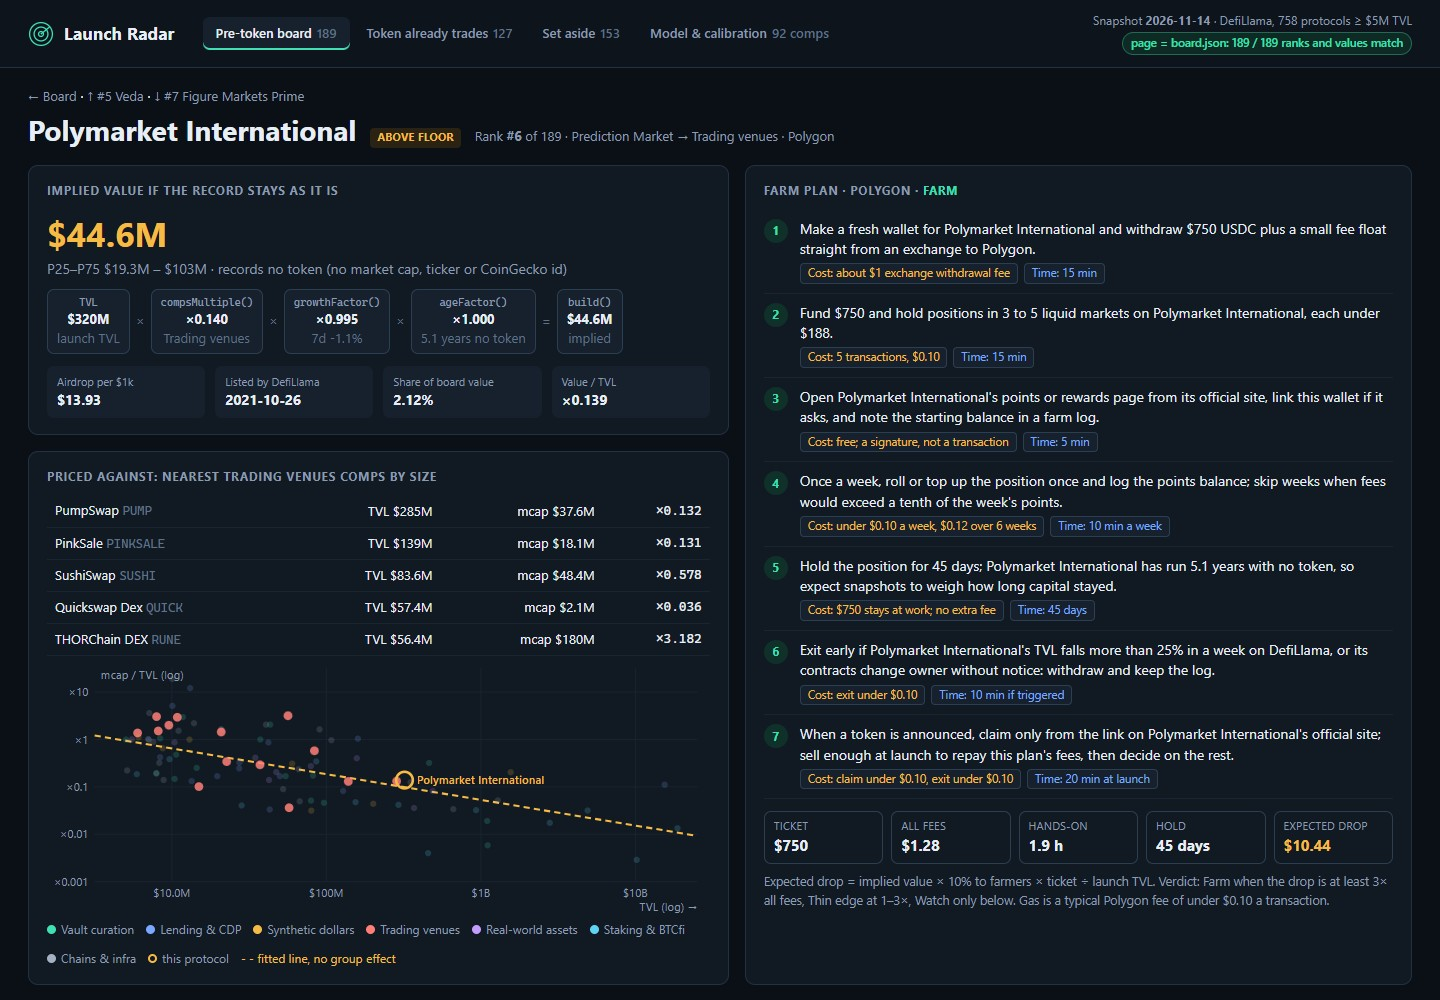
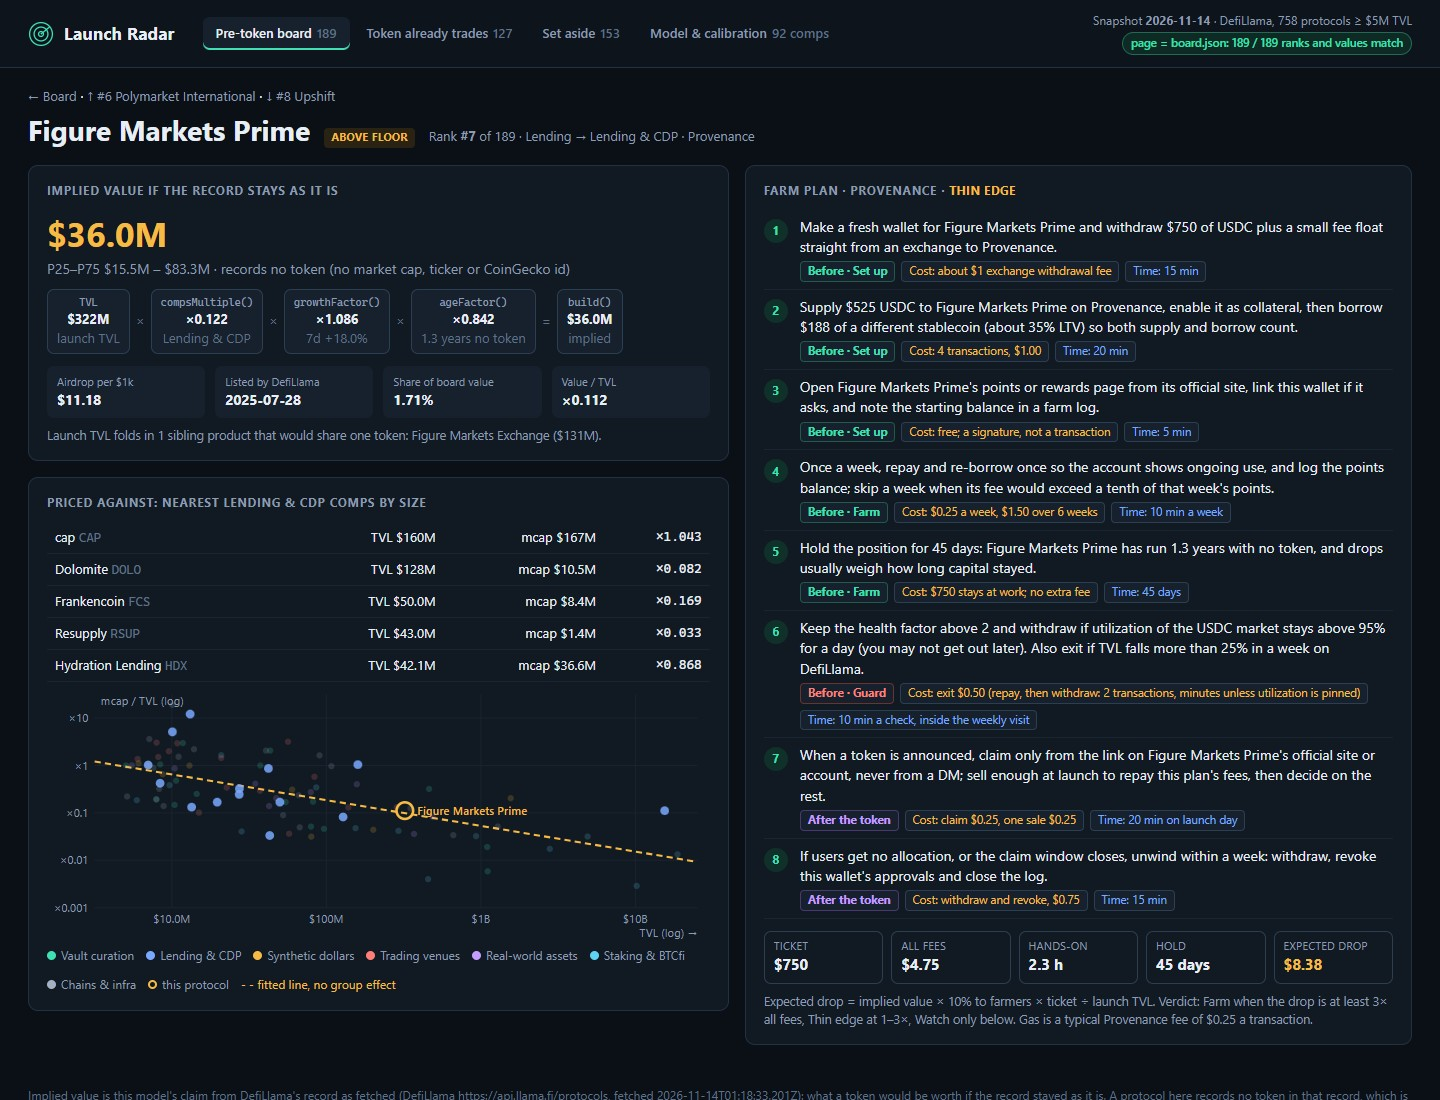
v2: mechanism-specific farm plans with before/after-token phases, live levers lab, ticker-joined families

diff --git a/dashboard/model.js b/dashboard/model.js
@@ -189,45 +189,51 @@
   const GAS = { Ethereum: 3.5, Bitcoin: 2.5, Tron: 1.2, Binance: 0.08, Polygon: 0.02, Arbitrum: 0.05, Base: 0.03, Optimism: 0.03, Avalanche: 0.08, Solana: 0.01, Sui: 0.01, Aptos: 0.01, Monad: 0.02, 'Hyperliquid L1': 0.05, Algorand: 0.002, Stellar: 0.001, Ripple: 0.001, Ink: 0.03, Plasma: 0.01, Katana: 0.03, Unichain: 0.03, Starknet: 0.05, Linea: 0.05, Sonic: 0.02, Berachain: 0.05, Mantle: 0.05, Bittensor: 0.01, Flare: 0.02, Sei: 0.01, Noble: 0.01, Pharos: 0.02, Arc: 0.02, Stable: 0.01, Mezo: 0.05, CORE: 0.02, 'Robinhood Chain': 0.03, Tempo: 0.01, Near: 0.01, Ton: 0.03, Cardano: 0.2, Hemi: 0.05, Scroll: 0.05, BSquared: 0.05 };
   const money = (v) => (v >= 100 ? '$' + Math.round(v).toLocaleString('en-US') : v >= 1 ? '$' + v.toFixed(2) : v >= 0.1 ? '$' + v.toFixed(2) : 'under $0.10');
 
-  /** farmPlan: concrete steps for one row, each with what it costs and how long it takes, plus totals. */
+  /** playbook: the mechanism's own position (what to do, transactions, setup minutes, weekly action) and the
+      risk that position carries (what to watch, how long an exit takes). Chosen by category, then mechanism. */
+  function playbook(r, n, t, chain) {
+    const c = r.category || '', $t = '$' + t;
+    const P = (act, tx, min, weekly, guard, exit) => ({ act, tx, min, weekly, guard, exit });
+    if (/CDP/.test(c)) return P('Lock ' + $t + ' of ' + chain + "'s main collateral in " + n + ' and mint its stablecoin at no more than 40% LTV, then park the minted coins in its savings module if it has one.', 3, 20, 'check the collateral ratio and repay a little if LTV drifts over 50%', 'Set a price alert at the collateral price that takes LTV to 60%; repay first, then withdraw, if it fires.', 'repay and unlock: 2 transactions, minutes');
+    if (/Lending/.test(c)) return P('Supply $' + Math.round(t * 0.7) + ' USDC to ' + n + ' on ' + chain + ', enable it as collateral, then borrow $' + Math.round(t * 0.25) + ' of a different stablecoin (about 35% LTV) so both supply and borrow count.', 4, 20, 'repay and re-borrow once so the account shows ongoing use', 'Keep the health factor above 2 and withdraw if utilization of the USDC market stays above 95% for a day (you may not get out later).', 'repay, then withdraw: 2 transactions, minutes unless utilization is pinned');
+    if (/Basis|Stablecoin|Stable|Algo|Reserve|CeDeFi/.test(c)) return P('Mint ' + $t + ' of ' + n + "'s dollar with USDC on " + chain + " (or buy it on a DEX at or under $1.00), then stake it in the protocol's own savings vault.", 3, 15, 'compound or restake the savings yield once', "Exit if the dollar trades under $0.99 for 24 hours or the protocol's reserve report goes stale.", 'unstake (some vaults run a 7-day cooldown), then redeem');
+    if (/Dexs/.test(c)) return P('Add ' + $t + ' to a stablecoin pair on ' + n + ' (' + chain + ') as a full-range position so it never falls out of range; avoid volatile pairs, where impermanent loss can exceed the drop.', 3, 20, 'claim fees and swap once on the venue', 'Exit if the pair depegs by more than 1% or the pool loses half its liquidity.', 'remove liquidity: 1 transaction');
+    if (/Prediction/.test(c)) return P('Fund ' + $t + ' and hold positions in 3 to 5 liquid markets on ' + n + ', each under $' + Math.round(t / 4) + ', preferring markets that resolve within the hold period.', 5, 30, 'trade or roll one position', 'Never put more than a quarter of the ticket in one market; a resolved market is not a loss of farm activity, re-enter another.', 'sell positions or wait for resolution');
+    if (/Derivatives|Options|Synthetics|Interest Rate/.test(c)) return P('Post ' + $t + ' USDC margin on ' + n + ' (' + chain + ') and trade about $' + (t * 10).toLocaleString('en-US') + ' notional a week in BTC or ETH at 1-2x, opening and closing in one session.', 4, 25, 'trade the week\'s notional: taker fees of about 0.05% are about $' + (t * 10 * 0.0005).toFixed(2), 'Never hold overnight above 2x; volume farmed with wash trades is usually excluded from drops.', 'close positions, withdraw margin');
+    if (/RWA/.test(c)) return P('Pass ' + n + "'s eligibility check (KYC can take 1-3 days), then subscribe " + $t + ' to its tokenized fund or note on ' + chain + ' and hold the token in this wallet.', 3, 45, 'confirm the NAV and the yield paid', 'Read the redemption terms before subscribing: exits often settle in T+1 to T+5 days and some notes have a minimum.', 'redeem at NAV, often T+1 to T+5');
+    if (/Payments/.test(c)) return P('Move ' + $t + ' through ' + n + ': open a wallet that supports it, fund it, and send and receive 3 small payments.', 3, 30, 'send and receive one payment', 'Keep the balance small: payment channels need the wallet online or a watchtower to stay safe.', 'close or drain the channel: 1 transaction');
+    if (/Chain/.test(c)) return P('Bridge ' + $t + ' to ' + n + ' (' + chain + ') through its official bridge and use 2-3 of its apps: one swap, one lend, one stake.', 4, 30, 'one swap and one deposit in a different app', 'Exit through the official bridge only; check its withdrawal delay before you enter.', 'bridge back: delays vary from minutes to 7 days');
+    if (/Insurance/.test(c)) return P('Provide ' + $t + ' of capital to ' + n + "'s underwriting pool, or buy cover for a position you already hold.", 2, 20, 'check open claims against the pool', 'Underwriting capital can be slashed by a covered hack; exit if a large claim is opened.', 'withdrawals from cover pools often queue for days');
+    if (r.group === 'stake') return P('Stake ' + $t + ' of ' + chain + "'s native asset through " + n + ' and keep the receipt token in this wallet; do not sell or bridge it.', 2, 15, 'restake rewards once', 'Know the unbonding period before staking; exit if the receipt trades more than 2% under its backing.', 'unstake: wait out the unbonding period');
+    if (r.group === 'vault' || /Capital Allocator|Curator|Yield|Farm|Indexes|Liquidity Manager/.test(c)) return P('Deposit ' + $t + ' USDC into ' + n + "'s largest USDC vault on " + chain + ' (its own site lists the vaults it curates or runs) and keep the vault shares in this wallet.', 2, 15, 'check the vault\'s markets and its share price', "Withdraw if the vault's share price falls, or if it moves into markets you would not lend to yourself.", 'withdraw: 1 transaction, unless the underlying markets are fully lent');
+    return P('Use ' + n + ' with ' + $t + ' on ' + chain + ': one deposit plus one swap or transfer, so the wallet shows real activity.', 3, 20, 'one more transaction of the same kind', 'Exit if the app pauses withdrawals or changes its contracts without notice.', 'withdraw: 1-2 transactions');
+  }
+
+  /** farmPlan: eight steps, before and after the token, each with what it costs and how long it takes. */
   function farmPlan(r, k) {
     const top = r.chains.slice(0, 3);
     const chain = top.length ? top.reduce((best, c) => ((GAS[c] ?? 0.25) < (GAS[best] ?? 0.25) ? c : best), top[0]) : 'its main chain';
     const gas = GAS[chain] ?? 0.25, young = r.age_days !== null && r.age_days < 180;
     const ticket = r.launch_tvl_usd < 20e6 || young ? 250 : r.launch_tvl_usd < 100e6 ? 500 : r.launch_tvl_usd < 1e9 ? 750 : 1000;
     const hold = young ? 90 : r.age_days !== null && r.age_days < 365 ? 60 : 45, weeks = Math.round(hold / 7);
-    const n = r.name, c = r.category || '';
-    const act = {
-      vault: ['Deposit $' + ticket + ' USDC into ' + n + "'s largest USDC vault on " + chain + ' (the curator lists it on its own site) and keep the vault shares in this wallet.', 2],
-      lend: /CDP/.test(c)
-        ? ['Lock $' + ticket + ' of ' + chain + "'s main collateral in " + n + ' and mint its stablecoin at no more than 40% LTV, far from liquidation.', 3]
-        : ['Supply $' + Math.round(ticket * 0.7) + ' USDC to ' + n + ' on ' + chain + ', then borrow $' + Math.round(ticket * 0.25) + ' against it (about 35% LTV) so both sides earn activity.', 4],
-      dollar: ['Mint $' + ticket + ' of ' + n + "'s dollar with USDC on " + chain + ' and stake it in the protocol\'s own savings or staking vault.', 3],
-      trade: /Dexs/.test(c)
-        ? ['Add $' + ticket + ' to a stablecoin pool on ' + n + ' (' + chain + ') as a full-range position, so it never falls out of range.', 3]
-        : /Prediction/.test(c)
-          ? ['Fund $' + ticket + ' and hold positions in 3 to 5 liquid markets on ' + n + ', each under $' + Math.round(ticket / 4) + '.', 5]
-          : ['Post $' + ticket + ' USDC margin on ' + n + ' (' + chain + ') and trade about $' + ticket * 10 + ' notional a week in BTC or ETH at 1-2x, opening and closing in one session.', 4],
-      rwa: ['Pass ' + n + "'s eligibility check, then subscribe $" + ticket + ' to its tokenized fund or note on ' + chain + ' and hold the token in this wallet.', 3],
-      stake: ['Stake $' + ticket + ' of ' + chain + "'s native asset through " + n + ' and keep the receipt token in this wallet; do not sell or bridge it.', 2],
-      infra: ['Bridge $' + ticket + ' to ' + chain + ' and use ' + n + ' directly: one deposit plus one swap or transfer, so the wallet shows real activity.', 3],
-    }[r.group];
-    const setupGas = gas * (act[1] + 1), weekly = gas, exitGas = gas * 2;
+    const n = r.name, pb = playbook(r, n, ticket, chain);
+    const S = (phase, text, cost, usd, time, min) => ({ phase, do: text, cost, usd, time, min });
     const steps = [
-      { do: 'Make a fresh wallet for ' + n + ' and withdraw $' + ticket + ' USDC plus a small fee float straight from an exchange to ' + chain + (chain === r.chains[0] ? '' : ' (its lowest-fee chain of the three that hold most TVL)') + '.', cost: 'about $1 exchange withdrawal fee', usd: 1, time: '15 min', min: 15 },
-      { do: act[0], cost: act[1] + ' transactions, ' + money(gas * act[1]), usd: gas * act[1], time: '15 min', min: 15 },
-      { do: 'Open ' + n + "'s points or rewards page from its official site, link this wallet if it asks, and note the starting balance in a farm log.", cost: 'free; a signature, not a transaction', usd: 0, time: '5 min', min: 5 },
-      { do: 'Once a week, roll or top up the position once and log the points balance; skip weeks when fees would exceed a tenth of the week\'s points.', cost: money(weekly) + ' a week, ' + money(weekly * weeks) + ' over ' + weeks + ' weeks', usd: weekly * weeks, time: '10 min a week', min: 10 * weeks },
-      { do: 'Hold the position for ' + hold + ' days' + (r.age_days === null ? '' : '; ' + n + ' has run ' + fmtAge(r.age_days) + ' with no token, so expect snapshots to weigh how long capital stayed') + '.', cost: '$' + ticket + ' stays at work; no extra fee', usd: 0, time: hold + ' days', min: 0 },
-      { do: 'Exit early if ' + n + "'s TVL falls more than 25% in a week on DefiLlama, or its contracts change owner without notice: withdraw and keep the log.", cost: 'exit ' + money(exitGas), usd: 0, time: '10 min if triggered', min: 0 },
-      { do: 'When a token is announced, claim only from the link on ' + n + "'s official site; sell enough at launch to repay this plan's fees, then decide on the rest.", cost: 'claim ' + money(gas) + ', exit ' + money(exitGas), usd: gas + exitGas, time: '20 min at launch', min: 20 },
+      S('Set up', 'Make a fresh wallet for ' + n + ' and withdraw $' + ticket + ' of ' + (chain === 'Bitcoin' ? 'BTC' : chain === 'Tron' ? 'USDT' : 'USDC') + ' plus a small fee float straight from an exchange to ' + chain + (chain === r.chains[0] ? '' : ', the lowest-fee of the three chains where it holds most TVL') + '.', 'about $1 exchange withdrawal fee', 1, '15 min', 15),
+      S('Set up', pb.act, pb.tx + ' transactions, ' + money(gas * pb.tx), gas * pb.tx, pb.min + ' min', pb.min),
+      S('Set up', 'Open ' + n + "'s points or rewards page from its official site, link this wallet if it asks, and note the starting balance in a farm log.", 'free; a signature, not a transaction', 0, '5 min', 5),
+      S('Farm', 'Once a week, ' + pb.weekly + ', and log the points balance; skip a week when its fee would exceed a tenth of that week\'s points.', money(gas) + ' a week, ' + money(gas * weeks) + ' over ' + weeks + ' weeks', gas * weeks, '10 min a week', 10 * weeks),
+      S('Farm', 'Hold the position for ' + hold + ' days' + (r.age_days === null ? '' : ': ' + n + ' has run ' + fmtAge(r.age_days) + ' with no token, and drops usually weigh how long capital stayed') + '.', '$' + ticket + ' stays at work; no extra fee', 0, hold + ' days', 0),
+      S('Guard', pb.guard + ' Also exit if TVL falls more than 25% in a week on DefiLlama.', 'exit ' + money(gas * 2) + ' (' + pb.exit + ')', 0, '10 min a check, inside the weekly visit', 0),
+      S('After launch', 'When a token is announced, claim only from the link on ' + n + "'s official site or account, never from a DM; sell enough at launch to repay this plan's fees, then decide on the rest.", 'claim ' + money(gas) + ', one sale ' + money(gas), gas * 2, '20 min on launch day', 20),
+      S('After launch', 'If users get no allocation, or the claim window closes, unwind within a week: withdraw, revoke this wallet\'s approvals and close the log.', 'withdraw and revoke, ' + money(gas * 3), gas * 3, '15 min', 15),
     ];
-    const cost = 1 + setupGas - gas + weekly * weeks + gas + exitGas; // withdrawal + setup txs + weekly + claim + exit
+    const cost = steps.reduce((s, x) => s + x.usd, 0);
     const drop = (r.implied_value_usd * k.airdropShare * ticket) / r.launch_tvl_usd;
     return {
       chain, gas, ticket, hold, steps, cost, minutes: steps.reduce((s, x) => s + x.min, 0), drop,
       verdict: drop >= 3 * cost ? 'Farm' : drop >= cost ? 'Thin edge' : 'Watch only',
-      text: steps.map((x) => x.do + ' Cost: ' + x.cost + '. Time: ' + x.time + '.'),
+      text: steps.map((x) => (x.phase === 'After launch' ? 'After the token: ' : 'Before the token, ' + x.phase.toLowerCase() + ': ') + x.do + ' Cost: ' + x.cost + '. Time: ' + x.time + '.'),
     };
   }
   function fmtAge(d) { return d >= 365 ? (d / 365).toFixed(1) + ' years' : d >= 60 ? Math.round(d / 30.4) + ' months' : d + ' days'; }

diff --git a/dashboard/app.js b/dashboard/app.js
@@ -114,7 +114,7 @@
       nearest(r, 5).map((c) => '<tr><td>' + esc(c.name) + ' <span class="dim mono">' + esc(c.symbol || '') + '</span></td><td class="n">TVL ' + usd(c.tvl) + '</td><td class="n">mcap ' + usd(c.mcap) + '</td><td class="n mono">' + x(c.mcap / c.tvl) + '</td></tr>').join('') +
       '</tbody></table>' + chart(r) + '</section></div>';
     h += '<section class="card"><h3>Farm plan · ' + esc(p.chain) + ' · <span class="verdict ' + vcls(p.verdict) + '">' + p.verdict + '</span></h3><ol class="steps">' +
-      p.steps.map((s) => '<li>' + esc(s.do) + '<div class="tags"><span class="tag c">Cost: ' + esc(s.cost) + '</span><span class="tag t">Time: ' + esc(s.time) + '</span></div></li>').join('') + '</ol>' +
+      p.steps.map((s) => '<li>' + esc(s.do) + '<div class="tags"><span class="tag ph ' + s.phase.split(' ')[0] + '">' + (s.phase === 'After launch' ? 'After the token' : 'Before · ' + s.phase) + '</span><span class="tag c">Cost: ' + esc(s.cost) + '</span><span class="tag t">Time: ' + esc(s.time) + '</span></div></li>').join('') + '</ol>' +
       '<div class="totals"><div><i>Ticket</i><b>$' + p.ticket.toLocaleString('en-US') + '</b></div><div><i>All fees</i><b>' + M.money(p.cost) + '</b></div><div><i>Hands-on</i><b>' + (p.minutes / 60).toFixed(1) + ' h</b></div><div><i>Hold</i><b>' + p.hold + ' days</b></div><div><i>Expected drop</i><b class="val">' + M.money(p.drop) + '</b></div></div>' +
       '<p class="note">Expected drop = implied value × ' + R.k.airdropShare * 100 + '% to farmers × ticket ÷ launch TVL. Verdict: Farm when the drop is at least 3× all fees, Thin edge at 1–3×, Watch only below. Gas is a typical ' + esc(p.chain) + ' fee of ' + M.money(p.gas) + ' a transaction.</p></section></div>';
     return h;
@@ -138,11 +138,19 @@
   function model() {
     const f = R.fit, gs = Object.keys(R.groups);
     let h = kpis() + '<div class="lab"><section class="card"><h3>The comps: every priced token family, and the line the board is priced on</h3>' + chart(null) +
-      '<p class="note">Each dot is one token family (records joined by CoinGecko id, TVL summed, largest market cap kept) that is not an exchange or chain token and has a market cap of at least $1M. ' + f.trimmed.length + ' families beyond ' + R.k.trimSigma + 'σ were trimmed before the refit: ' + f.trimmed.map((c) => esc(c.name)).join(', ') + '.</p></section><div>';
+      '<p class="note">Each dot is one token family (records joined by ticker, TVL summed, largest market cap kept) that is not an exchange or chain token and has a market cap of at least $1M. ' + f.trimmed.length + ' families beyond ' + R.k.trimSigma + 'σ were trimmed before the refit: ' + f.trimmed.map((c) => esc(c.name)).join(', ') + '.</p></section><div>';
     h += '<section class="card"><h3>Blind test (leave one out)</h3><div class="k"><span>Median miss, fitted model</span><b class="pos">' + x(f.looFit, 2) + '</b><span>Median miss, one flat multiple</span><b>' + x(f.looFlat, 2) + '</b><span>Rank correlation, blind mcap vs actual</span><b>' + f.spearman.toFixed(2) + '</b><span>Scatter σ (log10)</span><b>' + f.sigma.toFixed(3) + '</b><span>Comps used</span><b>' + f.n + '</b></div><p class="note">Each comp is priced by a model fitted without it. The fit misses by ' + x(f.looFit, 2) + ' at the median against ' + x(f.looFlat, 2) + ' for a single median multiple, so size and mechanism carry real information.</p></section>';
-    h += '<section class="card" style="margin-top:16px"><h3>Mechanism effects (shrunk)</h3><table class="mini"><tbody>' + gs.map((g) => { const n = f.comps.filter((c) => c.g === g).length, b = rows.filter((r) => r.group === g).length; return '<tr><td><i style="display:inline-block;width:9px;height:9px;border-radius:50%;background:' + GC[g] + '"></i> ' + gname(g) + '</td><td class="n">' + n + ' comps</td><td class="n">' + b + ' rows</td><td class="n mono">' + x(10 ** (f.g[g] || 0), 2) + '</td></tr>'; }).join('') + '</tbody></table></section>';
-    h += '<section class="card" style="margin-top:16px"><h3>Every constant</h3><div class="k">' + Object.entries(R.k).map(([k, v]) => '<code>' + k + '</code><span>' + v + '</span>').join('') + '</div></section></div></div>';
+    const mech = '<section class="card" style="margin-top:16px"><h3>Mechanism effects (shrunk)</h3><table class="mini"><tbody>' + gs.map((g) => { const n = f.comps.filter((c) => c.g === g).length, b = rows.filter((r) => r.group === g).length; return '<tr><td><i style="display:inline-block;width:9px;height:9px;border-radius:50%;background:' + GC[g] + '"></i> ' + gname(g) + '</td><td class="n">' + n + ' comps</td><td class="n">' + b + ' rows</td><td class="n mono">' + x(10 ** (f.g[g] || 0), 2) + '</td></tr>'; }).join('') + '</tbody></table></section>';
+    h += '<section class="card" style="margin-top:16px"><h3>Levers: move one and the board is rebuilt</h3><div id="lab">' + LEVERS.map(([k, l, a, b, st]) => '<label class="lever">' + l + ' <code>' + k + '</code><input type="range" data-lever="' + k + '" min="' + a + '" max="' + b + '" step="' + st + '" value="' + R.k[k] + '"><b id="lv-' + k + '">' + R.k[k] + '</b></label>').join('') + '</div><div id="labout">' + labOut(R) + '</div></section>' + mech + '</div></div>';
     return h;
+  }
+
+  // The lab re-runs build() with the levers moved and compares the new top 10 with the board's.
+  const LEVERS = [['growthWeight', 'Weight of the 7-day move', 0, 1, 0.05], ['ageFloor', 'Credit for a brand-new protocol', 0.2, 1, 0.05], ['ageFullDays', 'Days to full age credit', 180, 1460, 10], ['shrink', 'Pseudo-comps per mechanism', 0, 20, 1], ['airdropShare', 'Share of supply to farmers', 0.02, 0.3, 0.01]];
+  function labOut(T) {
+    const moved = T.rows.slice(0, 10).map((r) => { const d = bySlug.get(r.slug).rank - r.rank; return '<tr><td class="rk">' + r.rank + '</td><td>' + esc(r.name) + '</td><td class="n val">' + usd(r.implied_value_usd) + '</td><td class="n">' + (d > 0 ? '<span class="pos">▲' + d + '</span>' : d < 0 ? '<span class="neg">▼' + -d + '</span>' : '<span class="dim">=</span>') + '</td></tr>'; });
+    const kept = T.rows.slice(0, 20).filter((r) => bySlug.get(r.slug).rank <= 20).length;
+    return '<p class="note">Top 20 kept: <b>' + kept + ' / 20</b> · board value ' + usd(T.rows.reduce((s, r) => s + r.implied_value_usd, 0)) + ' · rows worth farming ' + T.rows.filter((r) => r.plan.verdict === 'Farm').length + '</p><table class="mini"><tbody>' + moved.join('') + '</tbody></table>';
   }
 
   function simple(kind) {
@@ -169,6 +177,12 @@
     if (tr) location.hash = '#/p/' + tr.dataset.p;
   });
   $('app').addEventListener('change', (e) => { if (e.target.dataset.k) set(e.target.dataset.k, e.target.value); });
+  $('app').addEventListener('input', (e) => {
+    if (!e.target.dataset.lever) return;
+    const k = {};
+    document.querySelectorAll('[data-lever]').forEach((i) => { k[i.dataset.lever] = Number(i.value); $('lv-' + i.dataset.lever).textContent = i.value; });
+    $('labout').innerHTML = labOut(M.build(S, k));
+  });
   $('app').addEventListener('keydown', (e) => { if (e.target.id === 'q' && e.key === 'Enter') set('q', e.target.value.trim()); });
   window.addEventListener('hashchange', render);
   render();

diff --git a/dashboard/app.css b/dashboard/app.css
@@ -75,11 +75,14 @@ td.rk { color: var(--dim); width: 34px; font-variant-numeric: tabular-nums; }
 .facts { display: grid; grid-template-columns: repeat(4, 1fr); gap: 10px; margin-top: 12px; }
 .facts div { background: var(--panel2); border-radius: 7px; padding: 8px 10px; } .facts i { display: block; font-style: normal; font-size: 11px; color: var(--muted); } .facts b { font-variant-numeric: tabular-nums; }
 ol.steps { list-style: none; margin: 0; padding: 0; counter-reset: s; }
-ol.steps li { counter-increment: s; position: relative; padding: 9px 0 9px 36px; border-bottom: 1px solid #1a2532; }
+ol.steps li { counter-increment: s; position: relative; padding: 7px 0 7px 36px; border-bottom: 1px solid #1a2532; }
 ol.steps li::before { content: counter(s); position: absolute; left: 0; top: 9px; width: 24px; height: 24px; border-radius: 50%; background: #10302a; color: var(--mint); font-weight: 700; font-size: 12px; display: grid; place-items: center; }
 ol.steps .tags { display: flex; gap: 6px; margin-top: 4px; flex-wrap: wrap; }
 .tag { font-size: 11.5px; padding: 1px 7px; border-radius: 4px; background: var(--panel2); color: var(--muted); border: 1px solid var(--line2); }
 .tag.c { color: var(--amber); } .tag.t { color: var(--sky); }
+.tag.ph { font-weight: 650; color: var(--mint); border-color: #1f5a4a; } .tag.ph.Guard { color: var(--coral); border-color: #6b3330; } .tag.ph.After { color: var(--violet); border-color: #4a3870; }
+.lever { display: grid; grid-template-columns: 1fr auto 140px 44px; align-items: center; gap: 10px; font-size: 13px; margin: 4px 0; text-transform: none; letter-spacing: 0; color: var(--text); }
+.lever code { color: var(--dim); font-size: 11px; } .lever input { accent-color: var(--mint); padding: 0; } .lever b { text-align: right; font-variant-numeric: tabular-nums; }
 .totals { display: grid; grid-template-columns: repeat(5, 1fr); gap: 8px; margin: 12px 0 0; }
 .totals div { border: 1px solid var(--line2); border-radius: 7px; padding: 7px 9px; } .totals i { display: block; font-style: normal; font-size: 10.5px; text-transform: uppercase; letter-spacing: .5px; color: var(--muted); } .totals b { font-size: 15px; font-variant-numeric: tabular-nums; }
 .mini td { padding: 6px 8px; font-size: 13px; cursor: default; }
